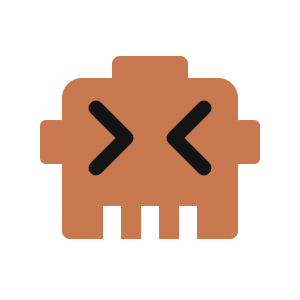
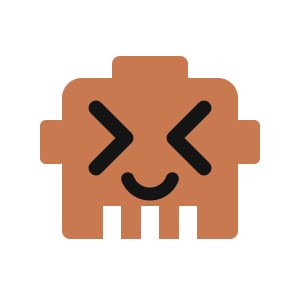
GESTO AR: reconstruye con A-Frame 1.3 + AR.js 3.4.5 (arregla camara en iOS) y marcador happy
- Cambia A-Frame 1.0.4 + AR.js master (raw.githack) por versiones fijas y
  estables desde jsDelivr, que funcionan en el iOS actual; gestos incrustados.
  Esto arregla que la camara parpadeara y no quedara prendida en el celular.
- Nuevo marcador 'Claude happy' con sonrisa, mas contraste y mejor deteccion;
  regenera marker.patt, marker.png y marker-pattern.png.

Changed region(s): [[0.39, 0.57, 0.6, 0.69]]

diff --git a/gesto/ar/index.html b/gesto/ar/index.html
@@ -6,12 +6,120 @@
     <title>GESTO · Realidad Aumentada</title>
     <meta name="description" content="App de realidad aumentada por marcador: apunta la cámara del celular a un marcador y aparece un modelo 3D animado. Parte del proyecto GESTO." />
 
-    <!-- Motor de AR (export de AR.js Studio) -->
-    <script src="https://aframe.io/releases/1.0.4/aframe.min.js"></script>
-    <script src="https://raw.githack.com/AR-js-org/AR.js/master/aframe/build/aframe-ar.js"></script>
-    <script src="https://raw.githack.com/donmccurdy/aframe-extras/master/dist/aframe-extras.loaders.min.js"></script>
-    <script src="https://raw.githack.com/AR-js-org/studio-backend/master/src/modules/marker/tools/gesture-detector.js"></script>
-    <script src="https://raw.githack.com/AR-js-org/studio-backend/master/src/modules/marker/tools/gesture-handler.js"></script>
+    <!-- Motor de AR (versiones fijas y estables, compatibles con iOS actual) -->
+    <script src="https://aframe.io/releases/1.3.0/aframe.min.js"></script>
+    <script src="https://cdn.jsdelivr.net/gh/AR-js-org/AR.js@3.4.5/aframe/build/aframe-ar.js"></script>
+    <script src="https://cdn.jsdelivr.net/npm/aframe-extras@6.1.1/dist/aframe-extras.min.js"></script>
+
+    <!-- Gestos (incrustados: arrastrar para rotar, pellizcar para escalar) -->
+    <script>
+      AFRAME.registerComponent('gesture-detector', {
+        schema: { element: { default: '' } },
+        init() {
+          this.targetElement = this.data.element && document.querySelector(this.data.element);
+          if (!this.targetElement) this.targetElement = this.el;
+          this.internalState = { previousState: null };
+          this.emitGestureEvent = this.emitGestureEvent.bind(this);
+          this.targetElement.addEventListener('touchstart', this.emitGestureEvent);
+          this.targetElement.addEventListener('touchend', this.emitGestureEvent);
+          this.targetElement.addEventListener('touchmove', this.emitGestureEvent);
+        },
+        remove() {
+          this.targetElement.removeEventListener('touchstart', this.emitGestureEvent);
+          this.targetElement.removeEventListener('touchend', this.emitGestureEvent);
+          this.targetElement.removeEventListener('touchmove', this.emitGestureEvent);
+        },
+        emitGestureEvent(event) {
+          const currentState = this.getTouchState(event);
+          const previousState = this.internalState.previousState;
+          const gestureContinues = previousState && currentState && currentState.touchCount == previousState.touchCount;
+          const gestureEnded = previousState && !gestureContinues;
+          const gestureStarted = currentState && !gestureContinues;
+          if (gestureEnded) {
+            const eventName = this.getEventPrefix(previousState.touchCount) + 'fingerend';
+            this.el.emit(eventName, previousState);
+            this.internalState.previousState = null;
+          }
+          if (gestureStarted) {
+            currentState.startTime = performance.now();
+            currentState.startPosition = currentState.position;
+            currentState.startSpread = currentState.spread;
+            const eventName = this.getEventPrefix(currentState.touchCount) + 'fingerstart';
+            this.el.emit(eventName, currentState);
+            this.internalState.previousState = currentState;
+          }
+          if (gestureContinues) {
+            const eventDetail = { positionChange: {
+              x: currentState.position.x - previousState.position.x,
+              y: currentState.position.y - previousState.position.y } };
+            if (currentState.spread) eventDetail.spreadChange = currentState.spread - previousState.spread;
+            Object.assign(previousState, currentState);
+            Object.assign(eventDetail, previousState);
+            const eventName = this.getEventPrefix(currentState.touchCount) + 'fingermove';
+            this.el.emit(eventName, eventDetail);
+          }
+        },
+        getTouchState(event) {
+          if (event.touches.length === 0) return null;
+          const touchList = [];
+          for (let i = 0; i < event.touches.length; i++) touchList.push(event.touches[i]);
+          const touchState = { touchCount: touchList.length };
+          const cx = touchList.reduce((s, t) => s + t.clientX, 0) / touchList.length;
+          const cy = touchList.reduce((s, t) => s + t.clientY, 0) / touchList.length;
+          touchState.positionRaw = { x: cx, y: cy };
+          const screenScale = 2 / (window.innerWidth + window.innerHeight);
+          touchState.position = { x: cx * screenScale, y: cy * screenScale };
+          if (touchList.length >= 2) {
+            const spread = touchList.reduce((s, t) =>
+              s + Math.sqrt(Math.pow(cx - t.clientX, 2) + Math.pow(cy - t.clientY, 2)), 0) / touchList.length;
+            touchState.spread = spread * screenScale;
+          }
+          return touchState;
+        },
+        getEventPrefix(touchCount) { return ['one', 'two', 'three', 'many'][Math.min(touchCount, 4) - 1]; },
+      });
+
+      AFRAME.registerComponent('gesture-handler', {
+        schema: { enabled: { default: true }, rotationFactor: { default: 5 }, minScale: { default: 0.3 }, maxScale: { default: 8 } },
+        init: function () {
+          this.handleScale = this.handleScale.bind(this);
+          this.handleRotation = this.handleRotation.bind(this);
+          this.isVisible = false;
+          this.initialScale = this.el.object3D.scale.clone();
+          this.scaleFactor = 1;
+          this.el.sceneEl.addEventListener('markerFound', () => { this.isVisible = true; });
+          this.el.sceneEl.addEventListener('markerLost', () => { this.isVisible = false; });
+        },
+        update: function () {
+          if (this.data.enabled) {
+            this.el.sceneEl.addEventListener('onefingermove', this.handleRotation);
+            this.el.sceneEl.addEventListener('twofingermove', this.handleScale);
+          } else {
+            this.el.sceneEl.removeEventListener('onefingermove', this.handleRotation);
+            this.el.sceneEl.removeEventListener('twofingermove', this.handleScale);
+          }
+        },
+        remove: function () {
+          this.el.sceneEl.removeEventListener('onefingermove', this.handleRotation);
+          this.el.sceneEl.removeEventListener('twofingermove', this.handleScale);
+        },
+        handleRotation: function (event) {
+          if (this.isVisible) {
+            this.el.object3D.rotation.y += event.detail.positionChange.x * this.data.rotationFactor;
+            this.el.object3D.rotation.x += event.detail.positionChange.y * this.data.rotationFactor;
+          }
+        },
+        handleScale: function (event) {
+          if (this.isVisible) {
+            this.scaleFactor *= 1 + event.detail.spreadChange / event.detail.startSpread;
+            this.scaleFactor = Math.min(Math.max(this.scaleFactor, this.data.minScale), this.data.maxScale);
+            this.el.object3D.scale.x = this.scaleFactor * this.initialScale.x;
+            this.el.object3D.scale.y = this.scaleFactor * this.initialScale.y;
+            this.el.object3D.scale.z = this.scaleFactor * this.initialScale.z;
+          }
+        },
+      });
+    </script>
 
     <style>
       :root { --accent: #ff7a1a; }
@@ -51,6 +159,9 @@
       #warn h2 { margin: 0 0 10px; }
       #warn p { color: #b5b2ac; line-height: 1.6; }
       #warn a { color: var(--accent); }
+
+      /* AR.js inserta el <video>; que llene la pantalla en iOS */
+      .a-canvas, video, #arjs-video { object-fit: cover; }
     </style>
   </head>
 
@@ -86,15 +197,15 @@
       </div>
     </div>
 
-    <!-- Escena de AR (export de AR.js Studio, intacta) -->
+    <!-- Escena de AR -->
     <a-scene
-      vr-mode-ui="enabled: false;"
-      loading-screen="enabled: false;"
-      renderer="logarithmicDepthBuffer: true;"
-      arjs="trackingMethod: best; sourceType: webcam; debugUIEnabled: false;"
-      id="scene"
+      vr-mode-ui="enabled: false"
+      loading-screen="enabled: false"
+      renderer="logarithmicDepthBuffer: true; colorManagement: true;"
       embedded
+      arjs="sourceType: webcam; debugUIEnabled: false; detectionMode: mono; trackingMethod: best; patternRatio: 0.5;"
       gesture-detector
+      id="scene"
     >
       <a-assets>
         <a-asset-item id="animated-asset" src="assets/asset.glb"></a-asset-item>
@@ -131,12 +242,16 @@
       });
 
       // Aviso si el contexto no es seguro (sin HTTPS no hay cámara en el móvil)
-      if (!window.isSecureContext && location.hostname !== 'localhost' && location.hostname !== '127.0.0.1') {
+      if (!window.isSecureContext &&
+          location.hostname !== 'localhost' && location.hostname !== '127.0.0.1') {
         document.getElementById('warn').style.display = 'flex';
       }
 
-      // Si getUserMedia falla, mostrar el aviso
+      // Si AR.js no logra abrir la cámara, mostrar el aviso
       window.addEventListener('camera-error', function () {
+        document.getElementById('warn').style.display = 'flex';
+      });
+      window.addEventListener('camera-init-error', function () {
         document.getElementById('warn').style.display = 'flex';
       });
     </script>
